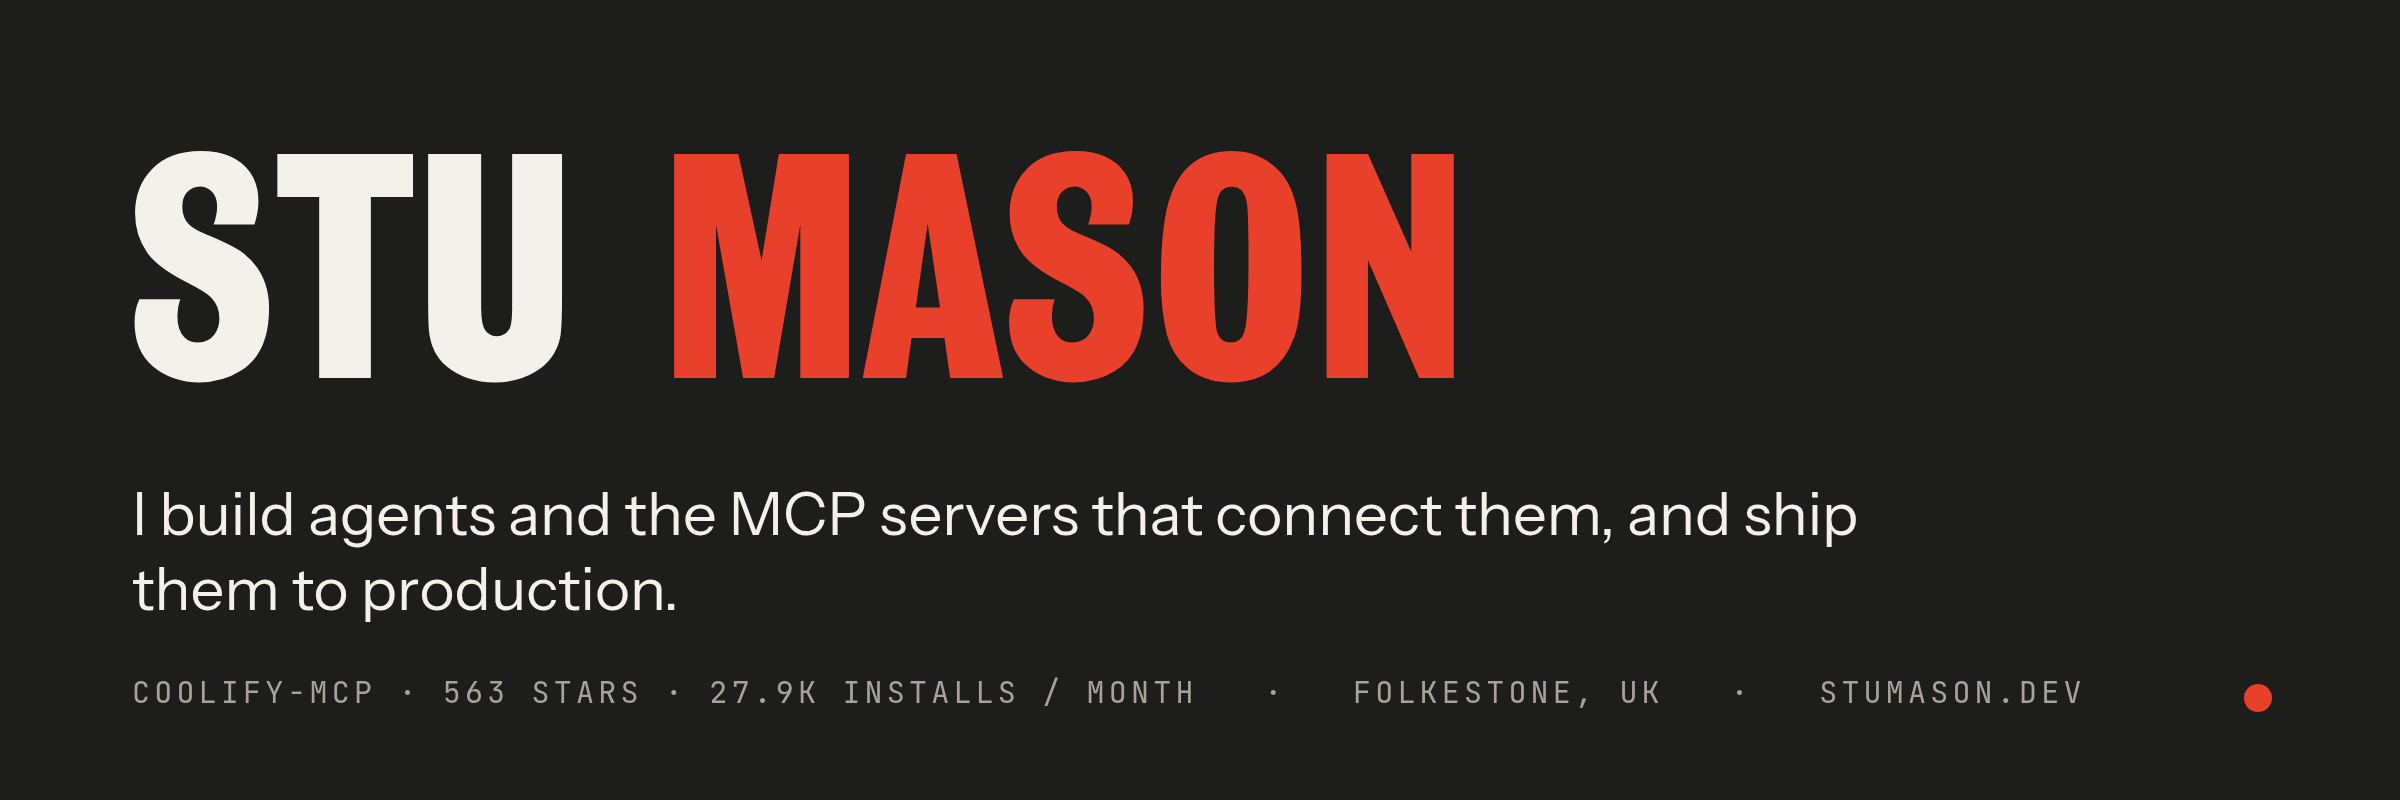
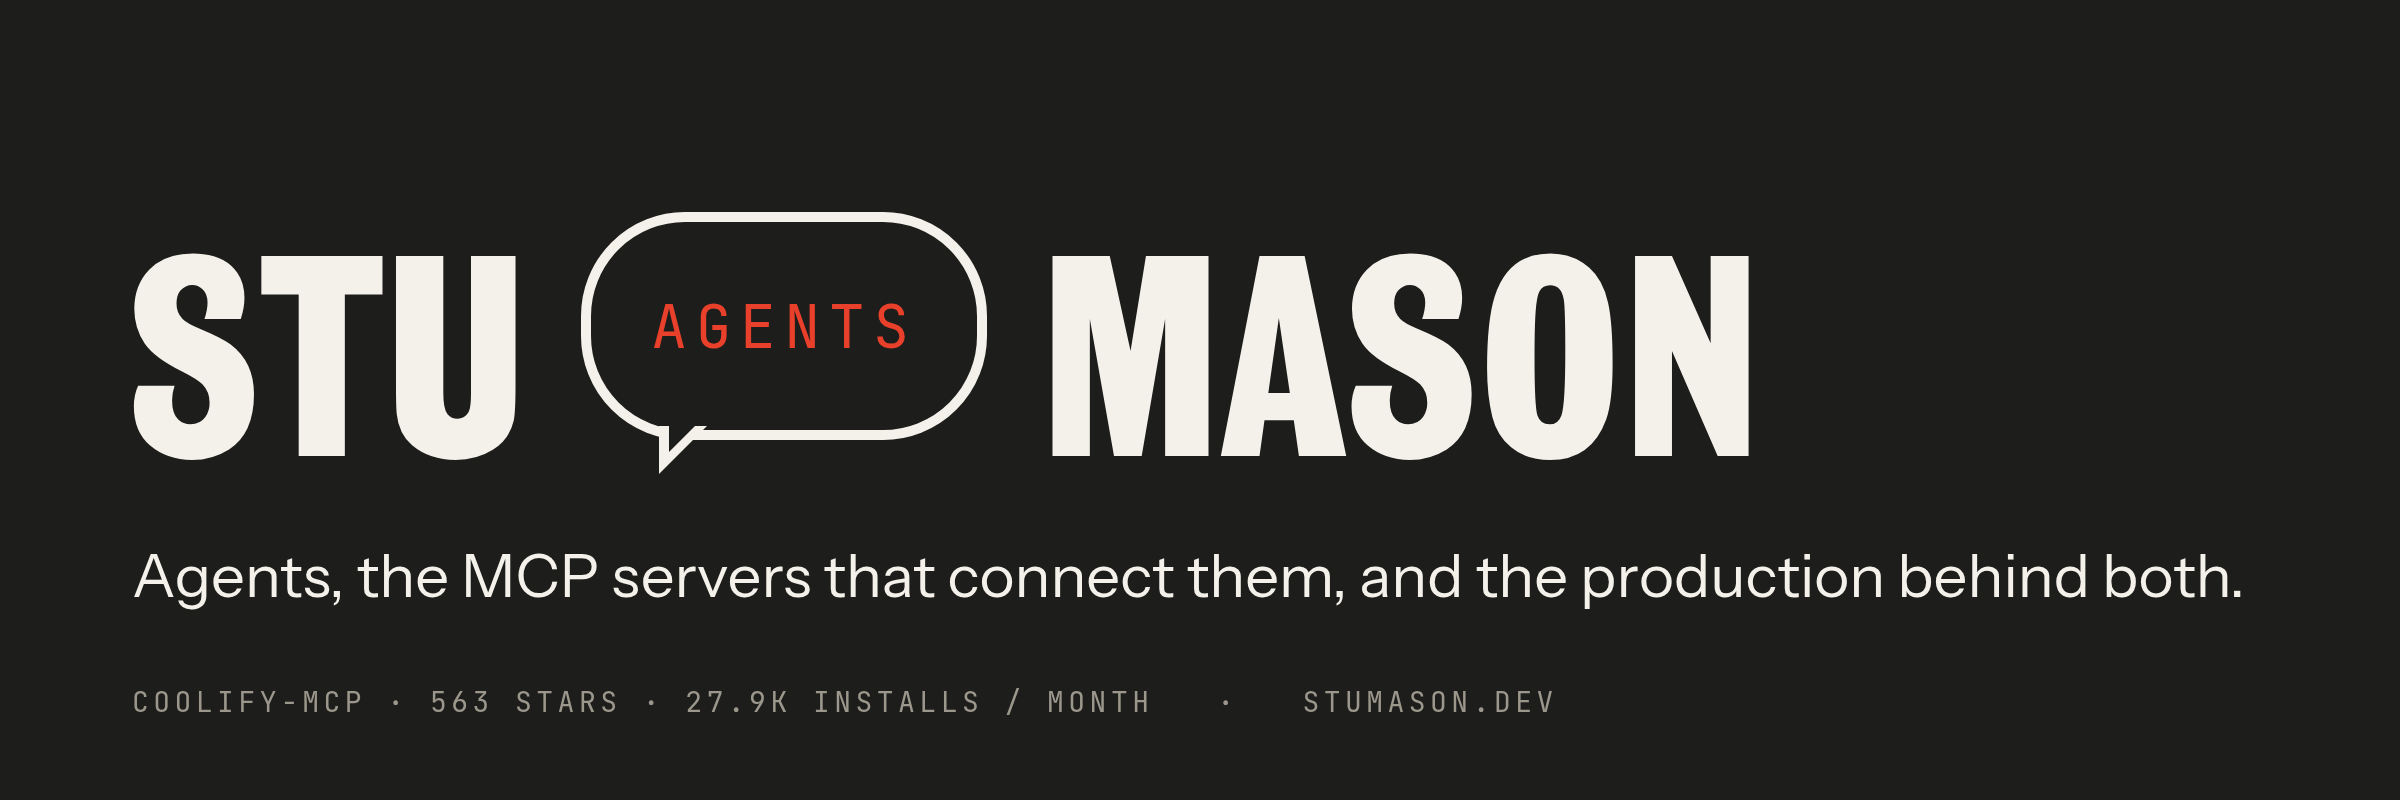
Profile: the mark, the digest, the links

diff --git a/README.md b/README.md
@@ -3,20 +3,10 @@
     <picture>
       <source media="(prefers-color-scheme: dark)" srcset="https://raw.githubusercontent.com/StuMason/stumason/main/assets/banner-dark.png">
       <source media="(prefers-color-scheme: light)" srcset="https://raw.githubusercontent.com/StuMason/stumason/main/assets/banner-light.png">
-      <img alt="Stu Mason. I build agents and the MCP servers that connect them, and ship them to production." src="https://raw.githubusercontent.com/StuMason/stumason/main/assets/banner-light.png" width="1200">
+      <img alt="Stu Mason. Agents, the MCP servers that connect them, and the production behind both." src="https://raw.githubusercontent.com/StuMason/stumason/main/assets/banner-light.png" width="1200">
     </picture>
   </a>
 </p>
-
-Fifteen years shipping. Seven of them running platform engineering at Pfizer (the serverless estate behind 1000+ sites, 500M+ events at peak). Two running a street food business on my own money. The last two building agents and MCP servers that do real jobs, then running them in production.
-
-**Building**
-
-- [coolify-mcp](https://github.com/StuMason/coolify-mcp): lets an agent run a self-hosted PaaS. 42 tools, OAuth, a 37-check release gate. 563 stars, 27.9k installs a month.
-- [polar-flow-server](https://github.com/StuMason/polar-flow-server): self-hosted health analytics for Polar devices, exposed to your AI over MCP. Listed in the MCP registry.
-- [laravel-coolify](https://github.com/StuMason/laravel-coolify): deploy Laravel to Coolify from artisan.
-- [shop-template](https://github.com/StuMason/shop-template): a commerce template with agent surfaces first (MCP, ACP, x402).
-- [jill](https://github.com/StuMason/jill): a job application built for the AI that reads it: markdown twin, llms.txt, an MCP server and an A2A agent card, on Cloudflare Pages.
 
 <!-- digest:start -->
 > This week: fixed mobile payment and booking flows for a client project so mobile users can reach payment fields and complete bookings, and added a rule in shop-template to deny PHP execution under /storage and /uploads to block uploaded web‑shells.
@@ -24,4 +14,4 @@ Fifteen years shipping. Seven of them running platform engineering at Pfizer (th
 > <sub>auto-generated daily from my GitHub activity — live feed at [stumason.dev](https://stumason.dev)</sub>
 <!-- digest:end -->
 
-[stumason.dev](https://stumason.dev) · [YouTube](https://youtube.com/@stumasondev) · [X](https://x.com/stumasondev) · [Work with me](https://stumason.dev/services) · [Newsletter](https://stumason.dev/newsletter)
+[stumason.dev](https://stumason.dev) · [YouTube](https://youtube.com/@stumasondev) · [X](https://x.com/stumasondev) · [Work with me](https://stumason.dev/services)
